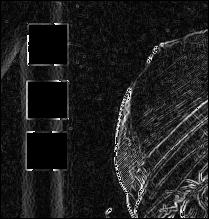
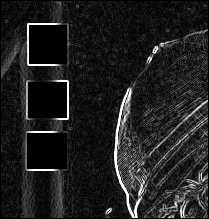
ref ex4

diff --git a/dm1exer/exer4.py b/dm1exer/exer4.py
@@ -24,7 +24,7 @@ img_out = np.zeros_like( img )
 #フィルタ処理
 
 #ここを編集
-for y in range( 1, img.shape[0]-1 ) : #端っこは無視
+for y in range( 1, img.shape[0]-1 ) :
     for x in range( 1, img.shape[1]-1 ) : 
         #横sobel
         fx = -1*img[y-1,x-1]+ 0*img[y-1,x]+ 1*img[y-1,x+1]+\
@@ -34,9 +34,12 @@ for y in range( 1, img.shape[0]-1 ) : #端っこは無視
         fy =  1*img[y-1,x-1]+ 2*img[y-1,x]+ 1*img[y-1,x+1]+\
               0*img[y  ,x-1]+ 0*img[y  ,x]+ 0*img[y  ,x+1]+\
              -1*img[y+1,x-1]- 2*img[y+1,x]- 1*img[y+1,x+1]
+
         #勾配強度を保存
         img_out[y,x] = math.sqrt( (math.pow(fx,2) + math.pow(fy,2)) )
 
+        if(img_out[y,x] > 255) : 
+            img_out[y,x] = 255
 
         
 #float型からuint8型に変換し、書き出し
